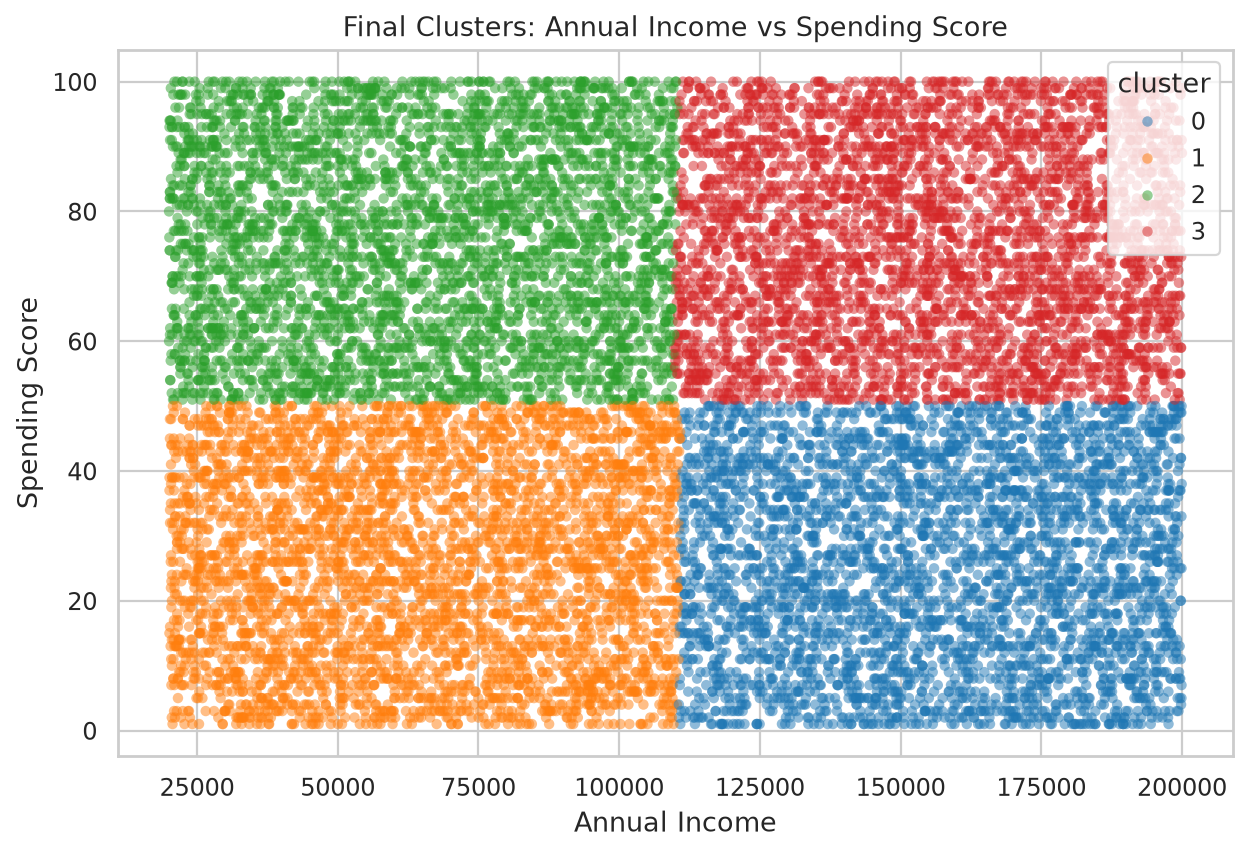
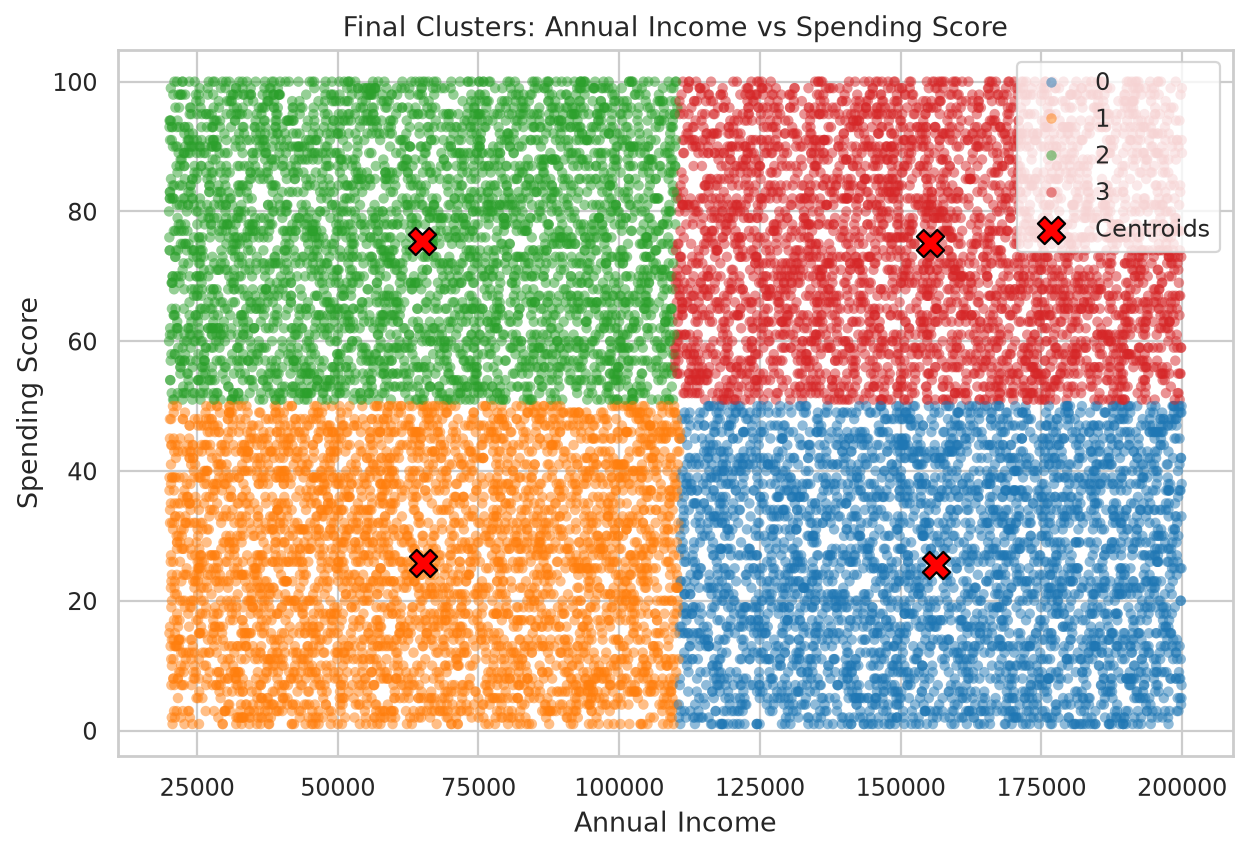
Enhance clustering visualizations and functionality
- Updated `plot_cluster_scatter` function to optionally accept cluster centroids for visualization.
- Modified the main pipeline to compute and save cluster centers when using KMeans, and updated scatter plots to include centroids.
- Added new GMM contour visualizations and comparisons, along with income vs spending plots.
- Saved new figures in the reports directory for better analysis of clustering results.

diff --git a/src/clustering.py b/src/clustering.py
@@ -237,7 +237,7 @@ def plot_kmeans_diagnostics(metrics: pd.DataFrame, output_dir: Path, feature_set
     return paths
 
 
-def plot_cluster_scatter(clustered: pd.DataFrame, output_dir: Path, x_col: str, y_col: str) -> Path:
+def plot_cluster_scatter(clustered: pd.DataFrame, output_dir: Path, x_col: str, y_col: str, centers: pd.DataFrame = None) -> Path:
     fig, ax = plt.subplots(figsize=(8, 5.5))
     sns.scatterplot(
         data=clustered,
@@ -250,6 +250,21 @@ def plot_cluster_scatter(clustered: pd.DataFrame, output_dir: Path, x_col: str, 
         linewidth=0,
         ax=ax,
     )
+    
+    # Plot centroids if provided and columns match
+    if centers is not None and x_col in centers.columns and y_col in centers.columns:
+        ax.scatter(
+            centers[x_col],
+            centers[y_col],
+            c='red',
+            marker='X',
+            s=150,
+            label='Centroids',
+            edgecolors='black',
+            zorder=10
+        )
+        ax.legend()
+        
     ax.set_title(f"Final Clusters: {x_col.replace('_', ' ').title()} vs {y_col.replace('_', ' ').title()}")
     ax.set_xlabel(x_col.replace("_", " ").title())
     ax.set_ylabel(y_col.replace("_", " ").title())

diff --git a/src/run_pipeline.py b/src/run_pipeline.py
@@ -178,6 +178,13 @@ def main() -> None:
     utils.save_table(clustered, paths["processed"] / "clustering_results.csv")
     utils.save_table(profiles, paths["metrics"] / "segment_profiles.csv")
 
+    centers = None
+    if selected_result.metadata["algorithm"] == "kmeans":
+        numeric_columns = feature_numeric_columns(selected_result.metadata["feature_set"])
+        centers = preprocess.inverse_numeric_centers(selected_result.estimator.cluster_centers_, selected_result.transformer, numeric_columns)
+        utils.save_table(centers.reset_index(names="cluster"), paths["metrics"] / "cluster_centers.csv")
+        clustering.plot_cluster_centers(centers, paths["figures_clustering"])
+
     utils.status("Saving final clustering figures and model")
     clustering.plot_kmeans_diagnostics(
         metrics,
@@ -185,17 +192,11 @@ def main() -> None:
         selected_result.metadata["feature_set"],
         selected_result.metadata["scaler"],
     )
-    clustering.plot_cluster_scatter(clustered, paths["figures_clustering"], "annual_income", "spending_score")
+    clustering.plot_cluster_scatter(clustered, paths["figures_clustering"], "annual_income", "spending_score", centers=centers)
     clustering.plot_cluster_scatter(clustered, paths["figures_clustering"], "age", "spending_score")
     clustering.plot_cluster_scatter(clustered, paths["figures_clustering"], "age", "annual_income")
     X_selected, _, _ = matrices[(selected_result.metadata["feature_set"], selected_result.metadata["scaler"])]
     clustering.plot_pca_projection(X_selected, selected_result.labels, paths["figures_clustering"])
-
-    if selected_result.metadata["algorithm"] == "kmeans":
-        numeric_columns = feature_numeric_columns(selected_result.metadata["feature_set"])
-        centers = preprocess.inverse_numeric_centers(selected_result.estimator.cluster_centers_, selected_result.transformer, numeric_columns)
-        utils.save_table(centers.reset_index(names="cluster"), paths["metrics"] / "cluster_centers.csv")
-        clustering.plot_cluster_centers(centers, paths["figures_clustering"])
 
     clustering.save_final_model(selected_result, paths["models"] / "best_cluster_model.joblib")
     write_customer_report(paths["reports"] / "customer_segmentation_report.md", selected, profiles, metrics, raw_path)